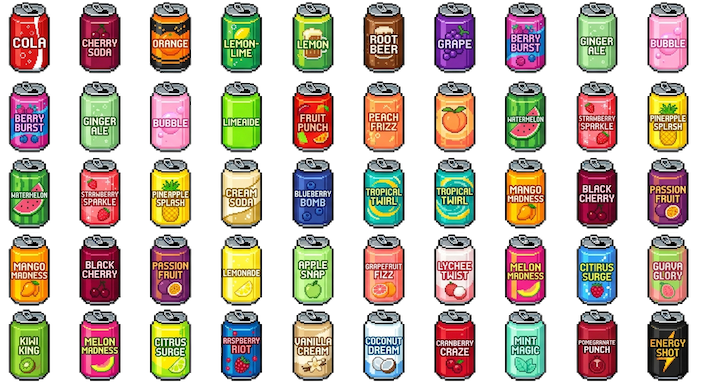
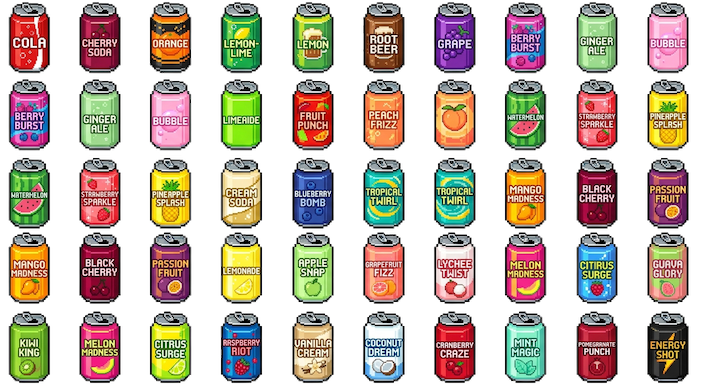
Fix image loading

diff --git a/landing_bomb/js/animationLoader.js b/landing_bomb/js/animationLoader.js
@@ -213,8 +213,8 @@ class AnimationLoader {
           // Check if variant has sprite sheet configuration
           if (variant.spriteSheet) {
             const sheetConfig = variant.spriteSheet;
-            const frameWidth = Math.floor(img.width / sheetConfig.cols);
-            const frameHeight = Math.floor(img.height / sheetConfig.rows);
+            const frameWidth = Math.ceil(img.width / sheetConfig.cols);
+            const frameHeight = Math.ceil(img.height / sheetConfig.rows);
             const frameCount = sheetConfig.cols * sheetConfig.rows;
             
             console.log(`变体精灵图: ${img.width}x${img.height}, 每帧: ${frameWidth}x${frameHeight}, 共 ${frameCount} 帧 (${sheetConfig.cols}列 x ${sheetConfig.rows}行)`);

diff --git a/landing_bomb/js/entities/waste.js b/landing_bomb/js/entities/waste.js
@@ -59,7 +59,7 @@ function drawWaste(ctx, waste, frameCount, isTimeSlowActive) {
         
         // Calculate draw dimensions
         const aspectRatio = imgWidth / imgHeight;
-        const drawWidth = ss(size.width * 0.8);
+        const drawWidth = ss(size.width);
         const drawHeight = drawWidth / aspectRatio;
         
         // Draw at rotated position (origin is now at waste center due to translate)